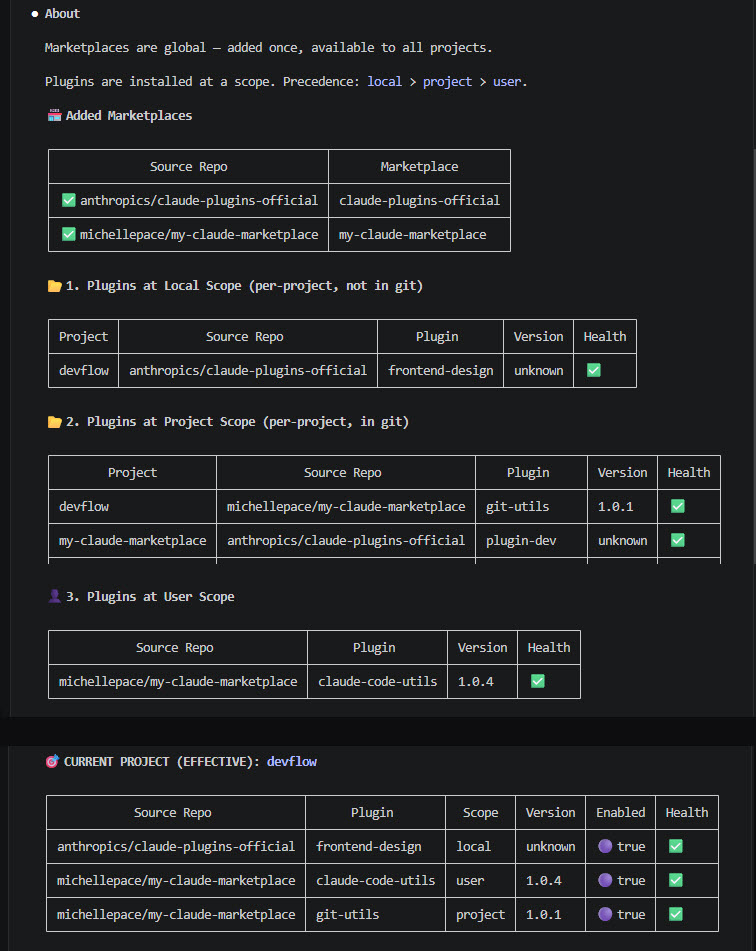
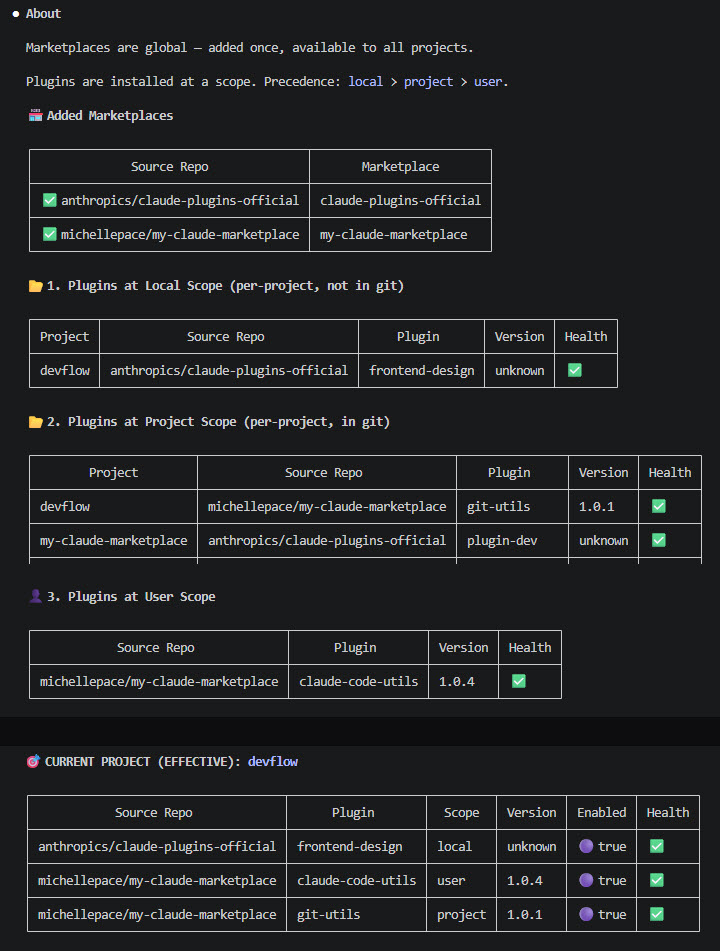
docs: standardise plugin install instructions to CLI commands
Install blocks:
- Replace `/plugin` slash commands with `claude plugin` CLI
  equivalents across all plugin READMEs and root README
- Add `--scope project` flag and `bash` syntax highlighting
- Capitalise "Marketplace" and "Plugin" in code comments

claude-code-utils README:
- Update cc-whats-new-changelog and cc-which-plugins screenshots
- Tighten copy for skill descriptions and sample output sections
- Remove fixed width from screenshot images

Consistent CLI-style install instructions make it easier to
copy-paste into a terminal and match the project-scope workflow
documented in the root README.

diff --git a/plugins/claude-code-utils/README.md b/plugins/claude-code-utils/README.md
@@ -2,14 +2,14 @@
 
 **Claude Code visibility & discovery:** Understand what is new in Claude Code from the changelog. Know which plugins you have installed and where.
 
-To install this plugin:
+Add marketplace and install this plugin (project scope):
 
-```
-# 1. Add marketplace if not already
-/plugin marketplace add michellepace/my-claude-marketplace
+```bash
+# 1. Add Marketplace
+claude plugin marketplace add michellepace/my-claude-marketplace --scope project
 
-# 2. Install this plugin
-/plugin install claude-code-utils@my-claude-marketplace
+# 2. Install Plugin "claude-code-utils"
+claude plugin install claude-code-utils@my-claude-marketplace --scope project
 ```
 
 ## 🟣 What's Inside
@@ -35,7 +35,7 @@ Run:
 
 <div align="center">
   <a href="images/cc-which-plugins.jpg" target="_blank">
-    <img src="images/cc-which-plugins.jpg" alt="cc-which-plugins skill output: tables showing added marketplaces, plugins installed at local, project, and user scopes with source repo, plugin name, version, and health status, followed by an effective-plugins summary for the current project listing each plugin's scope, version, enabled state, and health." width="756">
+    <img src="images/cc-which-plugins.jpg" alt="cc-which-plugins skill output: tables showing added marketplaces, plugins installed at local, project, and user scopes with source repo, plugin name, version, and health status, followed by an effective-plugins summary for the current project listing each plugin's scope, version, enabled state, and health.">
   </a>
 </div>
 
@@ -43,7 +43,7 @@ Run:
 
 ## 🟣 Skill: cc-whats-new-changelog
 
-Explains what's new in Claude Code versions with practical examples you can use immediately.
+Explains what's new in Claude Code changelog with practical examples you can use immediately.
 
 Run:
 
@@ -55,10 +55,10 @@ Run:
 
 ### Sample Output
 
-Fetches the Claude Code changelog. Ask Claude to explain any version (earlier than in the table is possible too). The skill then launches the `claude-code-guide` subagent for rich, practical explanations with examples and doc links.
+Specify any version within in range and have it explained. The skill then launches the  `claude-code-guide` subagent for rich, practical explanations with examples and doc links.
 
 <div align="center">
   <a href="images/cc-whats-new-changelog.jpg" target="_blank">
-    <img src="images/cc-whats-new-changelog.jpg" alt="cc-whats-new-changelog skill output: changelog is fetched and parsed into a summary table showing the latest 7 Claude Code versions with release dates, item counts, and at-a-glance change descriptions. Versions with zero items are noted as npm-only releases. A prompt asks which version to explain, e.g. 2.1.94 for a single version or 2.1.* for all." width="780">
+    <img src="images/cc-whats-new-changelog.jpg" alt="Screenshot of the cc-whats-new-changelog skill running in Claude Code. It displays a summary table of the latest 8 Claude Code versions (2.1.88 to 2.1.97) with columns for Version, Released date, Items count, and Changes at a Glance. The skill reports 87 total versions and prompts the user to pick a version, timeframe, or range to explain in detail.">
   </a>
 </div>

diff --git a/README.md b/README.md
@@ -36,17 +36,16 @@ Or browse available plugins, run `/plugin` > Marketplace > Select "my-claude-mar
 Commit plugin configuration to the repo so every collaborator gets the same setup. Register a marketplace and install plugins at project scope:
 
 ```bash
-# 1. Add marketplace (writes "extraKnownMarketplaces")
+# 1. Add Marketplace (writes "extraKnownMarketplaces")
 claude plugin marketplace add michellepace/my-claude-marketplace --scope project
 
-# 2. Install plugin (writes "enabledPlugins") or run `/plugin`
+# 2. Install Plugin (writes "enabledPlugins") or run `/plugin`
 claude plugin install git-utils@my-claude-marketplace --scope project
 
-# 3. Additional marketplace and plugins
+# 3. Additional Marketplace and Two Plugins
 claude plugin marketplace add anthropics/claude-plugins-official --scope project
 claude plugin install skill-creator@claude-plugins-official --scope project
 claude plugin install plugin-dev@claude-plugins-official --scope project
-
 ```
 
 Both commands write to [.claude/settings.json](claude/settings.json):

diff --git a/plugins/find-font/README.md b/plugins/find-font/README.md
@@ -4,14 +4,14 @@
 
 Give it a primary body font, optional candidates, and a mood or criteria. It fetches font data, classifies each font on the matrix, evaluates pairings, and recommends fonts that match your brief.
 
-To install this plugin:
+Add marketplace and install this plugin (project scope):
 
-```
-# 1. Add marketplace if not already
-/plugin marketplace add michellepace/my-claude-marketplace
+```bash
+# 1. Add Marketplace
+claude plugin marketplace add michellepace/my-claude-marketplace --scope project
 
-# 2. Install this plugin
-/plugin install find-font@my-claude-marketplace
+# 2. Install Plugin "find-font"
+claude plugin install find-font@my-claude-marketplace --scope project
 ```
 
 <div align="center">

diff --git a/plugins/nextjs-utils/README.md b/plugins/nextjs-utils/README.md
@@ -2,14 +2,14 @@
 
 **Next.js docs & dev guidance:** Download Next.js docs, trimmed and re-indexed for project relevancy. Development guidance for shadcn/ui.
 
-To install this plugin:
+Add marketplace and install this plugin (project scope):
 
-```
-# 1. Add marketplace if not already
-/plugin marketplace add michellepace/my-claude-marketplace
+```bash
+# 1. Add Marketplace
+claude plugin marketplace add michellepace/my-claude-marketplace --scope project
 
-# 2. Install this plugin
-/plugin install nextjs-utils@my-claude-marketplace
+# 2. Install Plugin "nextjs-utils"
+claude plugin install nextjs-utils@my-claude-marketplace --scope project
 ```
 
 ## What's Inside

diff --git a/plugins/git-utils/README.md b/plugins/git-utils/README.md
@@ -2,14 +2,14 @@
 
 **Git & GitHub workflows:** Commit messages, CodeRabbit reviews, and post-merge cleanup.
 
-To install this plugin:
+Add marketplace and install this plugin (project scope):
 
-```
-# 1. Add marketplace if not already
-/plugin marketplace add michellepace/my-claude-marketplace
+```bash
+# 1. Add Marketplace
+claude plugin marketplace add michellepace/my-claude-marketplace --scope project
 
-# 2. Install this plugin
-/plugin install git-utils@my-claude-marketplace
+# 2. Install Plugin "git-utils"
+claude plugin install git-utils@my-claude-marketplace --scope project
 ```
 
 ## What's Inside
